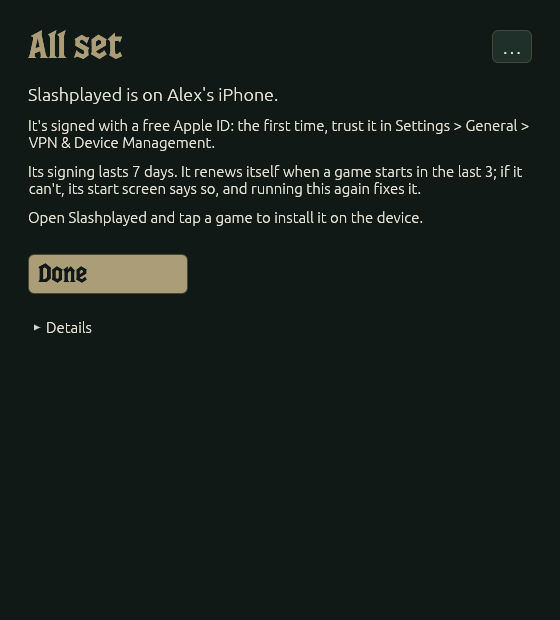
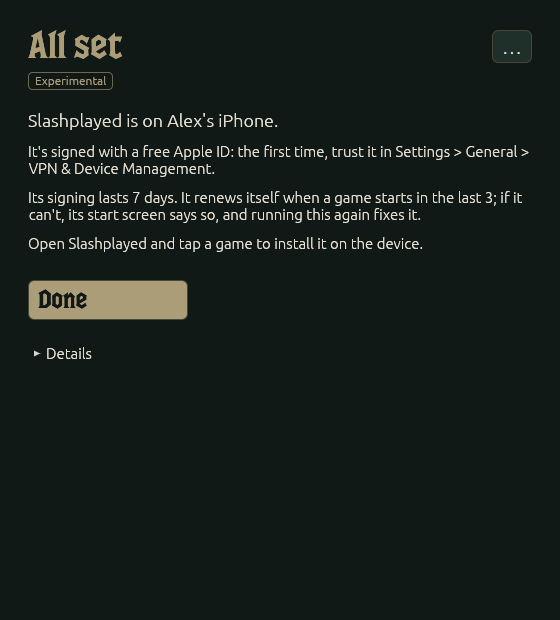
docs: label the Windows and Linux companion experimental
It now ships in every v* release rather than in prereleases, labeled
experimental: the setup guide's intro, the README's Windows and Linux
path, and the site's download line say so, and the screenshots are
rendered again to show the window's Experimental badge.

Checked: each drill state rendered under Xvfb (llvmpipe) and looked
at; the site with site-preview.sh; check-tree.

Amp-Thread-ID: https://ampcode.com/threads/T-01a1cf1c-8bce-765a-90f4-7301d0134fa0

Changed region(s): [[0.0304, 0.1226, 0.9411, 0.5823], [0.3946, 0.1226, 0.425, 0.1532]]

diff --git a/site/index.html b/site/index.html
@@ -320,7 +320,7 @@
             <i class="side l" aria-hidden="true"></i><i class="side r" aria-hidden="true"></i>
           </a>
           <p class="cta-sub">Free and open source (MIT). Early and experimental. For macOS 15 or later on Apple Silicon.</p>
-          <p class="cta-alt">On Windows or Linux, for iPad and iPhone: <span><a href="https://github.com/paulstraw/slashplayed/releases/latest/download/slashplayed-companion-windows-x86_64.zip">Windows</a> · <a href="https://github.com/paulstraw/slashplayed/releases/latest/download/slashplayed-companion-linux-x86_64.tar.gz">Linux (x86_64)</a> · <a href="https://github.com/paulstraw/slashplayed/releases/latest/download/slashplayed-companion-linux-aarch64.tar.gz">Linux (ARM)</a></span></p>
+          <p class="cta-alt">Experimental: <span><a href="https://github.com/paulstraw/slashplayed/releases/latest/download/slashplayed-companion-windows-x86_64.zip">Windows</a> · <a href="https://github.com/paulstraw/slashplayed/releases/latest/download/slashplayed-companion-linux-x86_64.tar.gz">Linux (x86_64)</a> · <a href="https://github.com/paulstraw/slashplayed/releases/latest/download/slashplayed-companion-linux-aarch64.tar.gz">Linux (ARM)</a></span></p>
           <p class="cta-links">
             <a href="https://github.com/paulstraw/slashplayed">Source on GitHub</a>
             <a href="https://github.com/paulstraw/slashplayed/blob/main/docs/guide.md">Guide</a>

diff --git a/docs/setup-without-a-mac.md b/docs/setup-without-a-mac.md
@@ -5,6 +5,11 @@ PC, with no Mac. It's a window that walks you through it: plug in the device, si
 and it installs the app. **slashplayed-cli**, in the same download, does the same from a terminal (see
 [From the command line](#from-the-command-line)).
 
+**It's experimental.** It ships with every release, but it's newer than the Mac companion and has had
+less testing on real devices: if something goes wrong,
+[open an issue](https://github.com/paulstraw/slashplayed/issues/new/choose) with what **Copy Details**
+copies (see [Troubleshooting](#troubleshooting)).
+
 **Apple Vision Pro still needs a Mac** with the [Slashplayed Companion](../README.md#get-started).
 
 ## What it does

diff --git a/README.md b/README.md
@@ -73,7 +73,7 @@ In-game voice chat isn't supported on the device yet
 ### On Windows or Linux
 
 For an iPad or iPhone, the Slashplayed Companion for Windows and Linux does the Mac's setup with no Mac
-or Xcode:
+or Xcode. It's **experimental**: newer than the Mac companion, and less tested on real devices.
 
 1. Download it from the [latest release](https://github.com/paulstraw/slashplayed/releases/latest):
    `slashplayed-companion-windows-x86_64.zip`, `slashplayed-companion-linux-x86_64.tar.gz`, or
